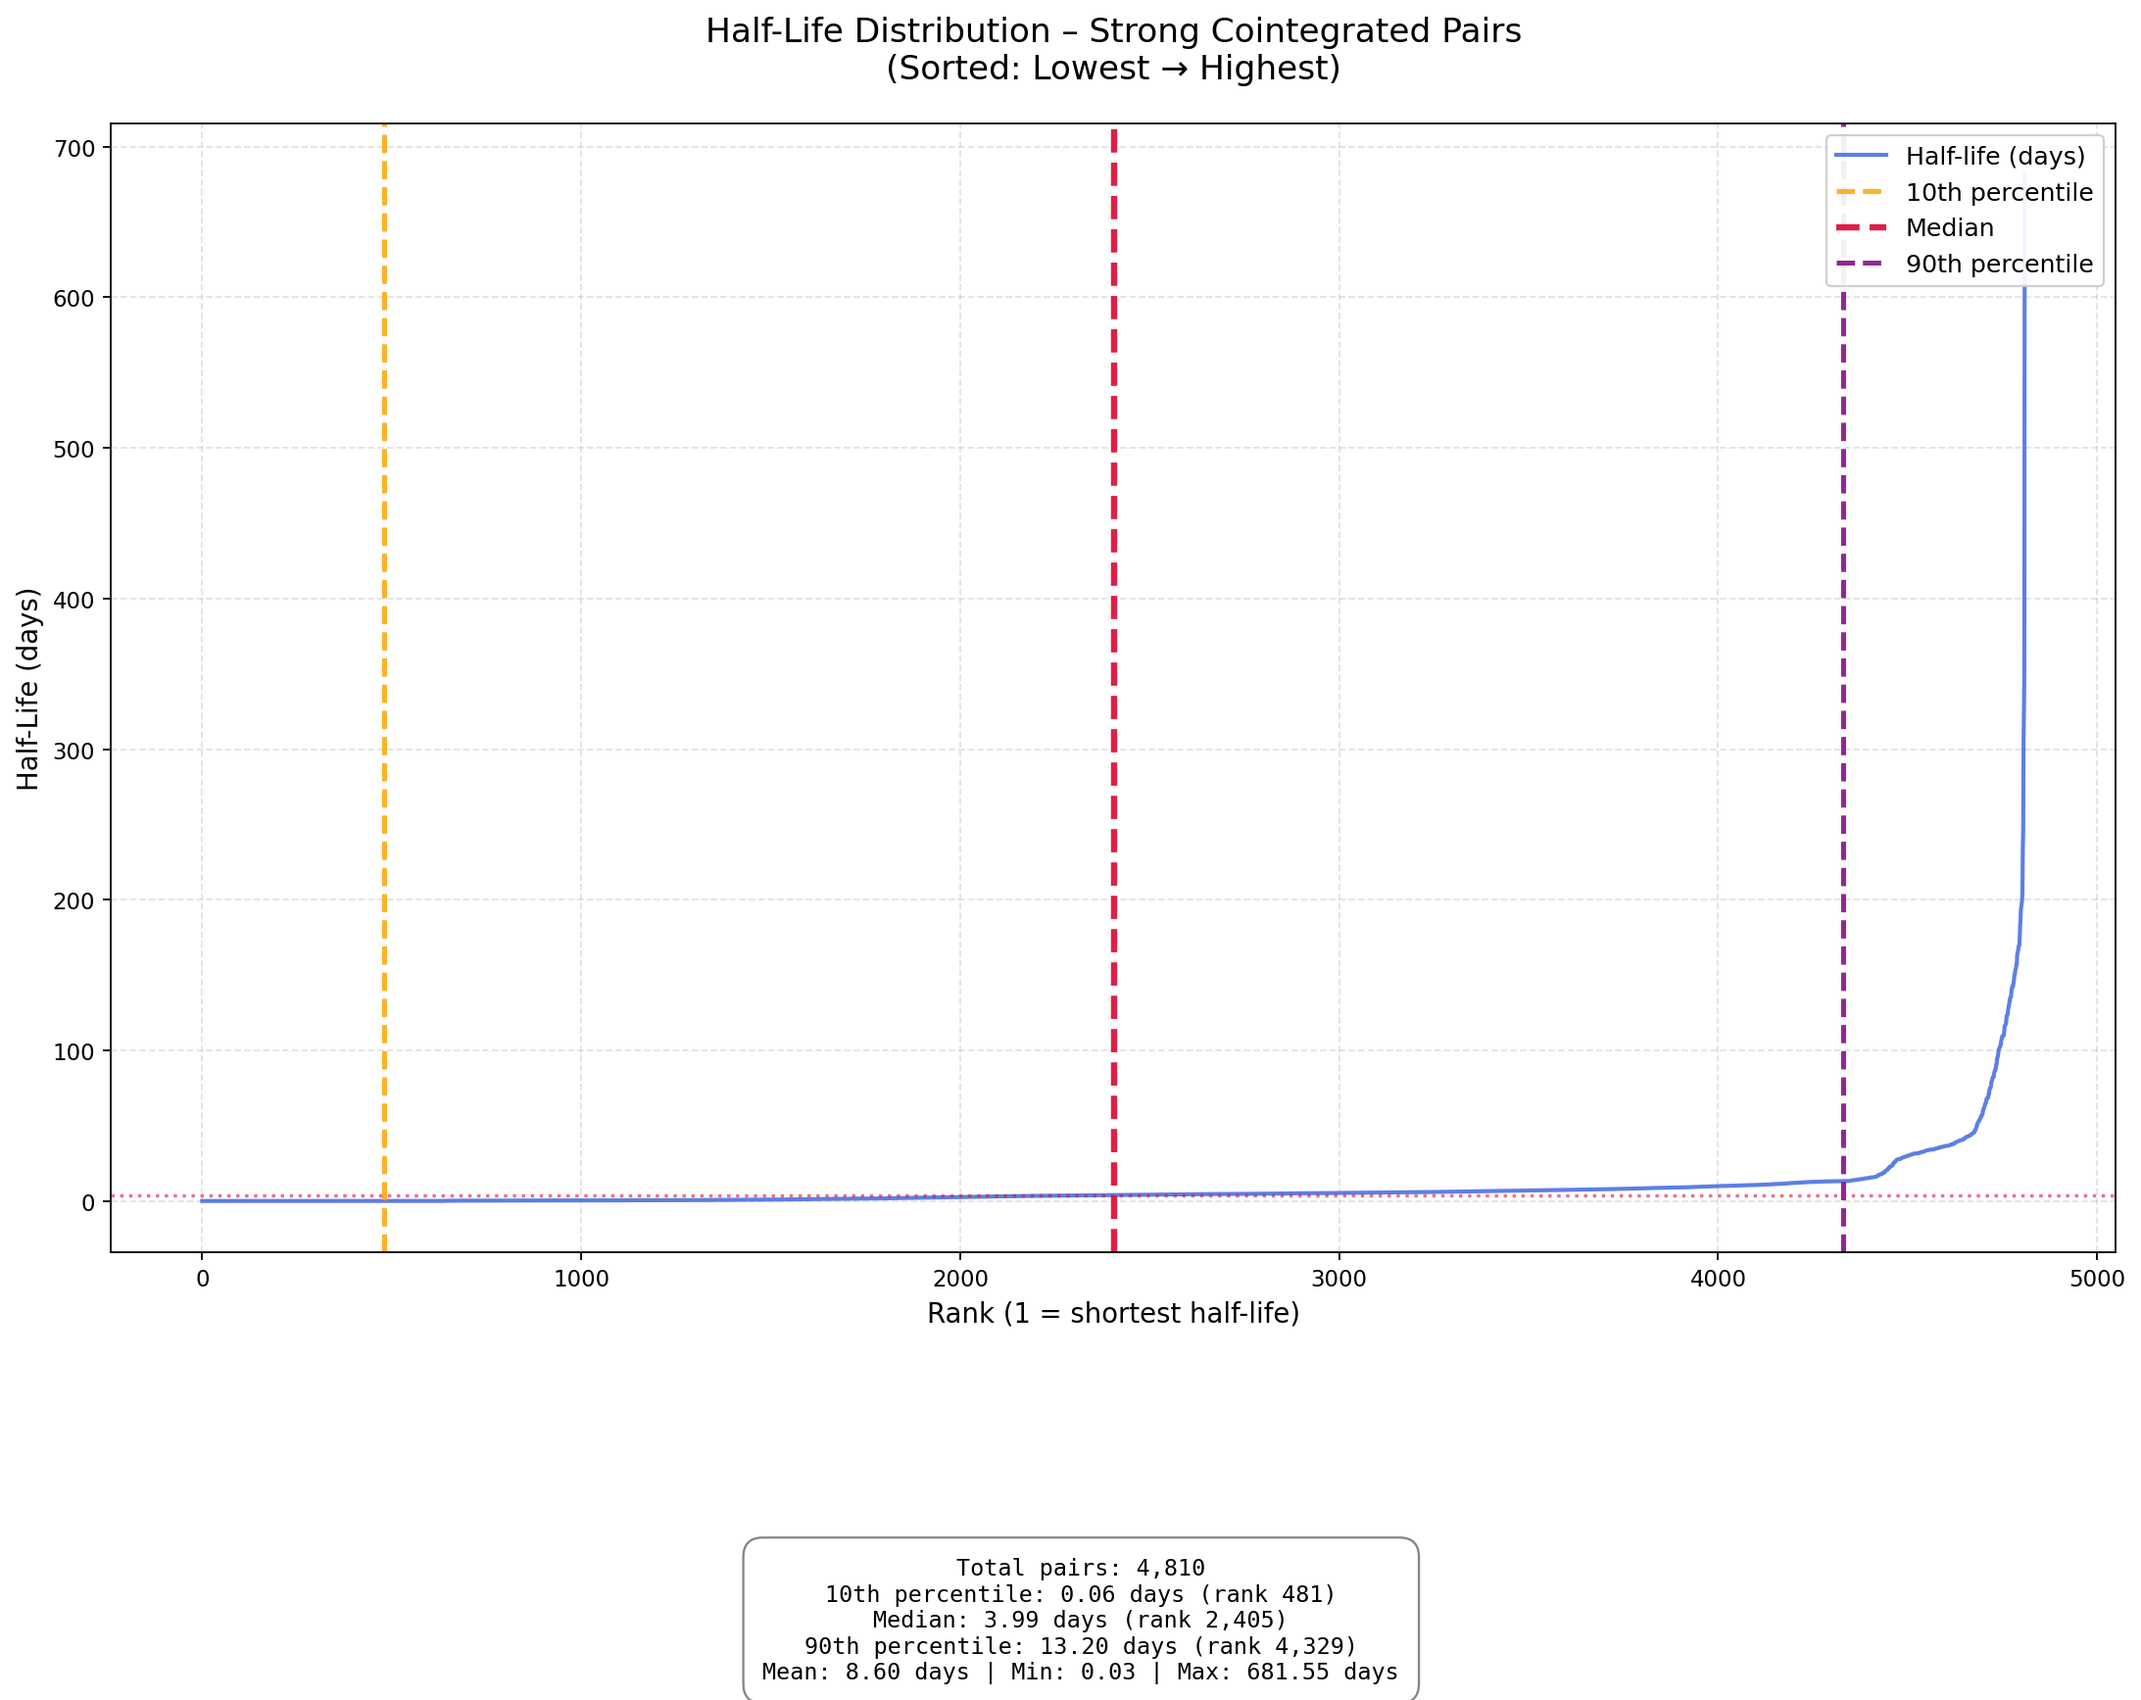
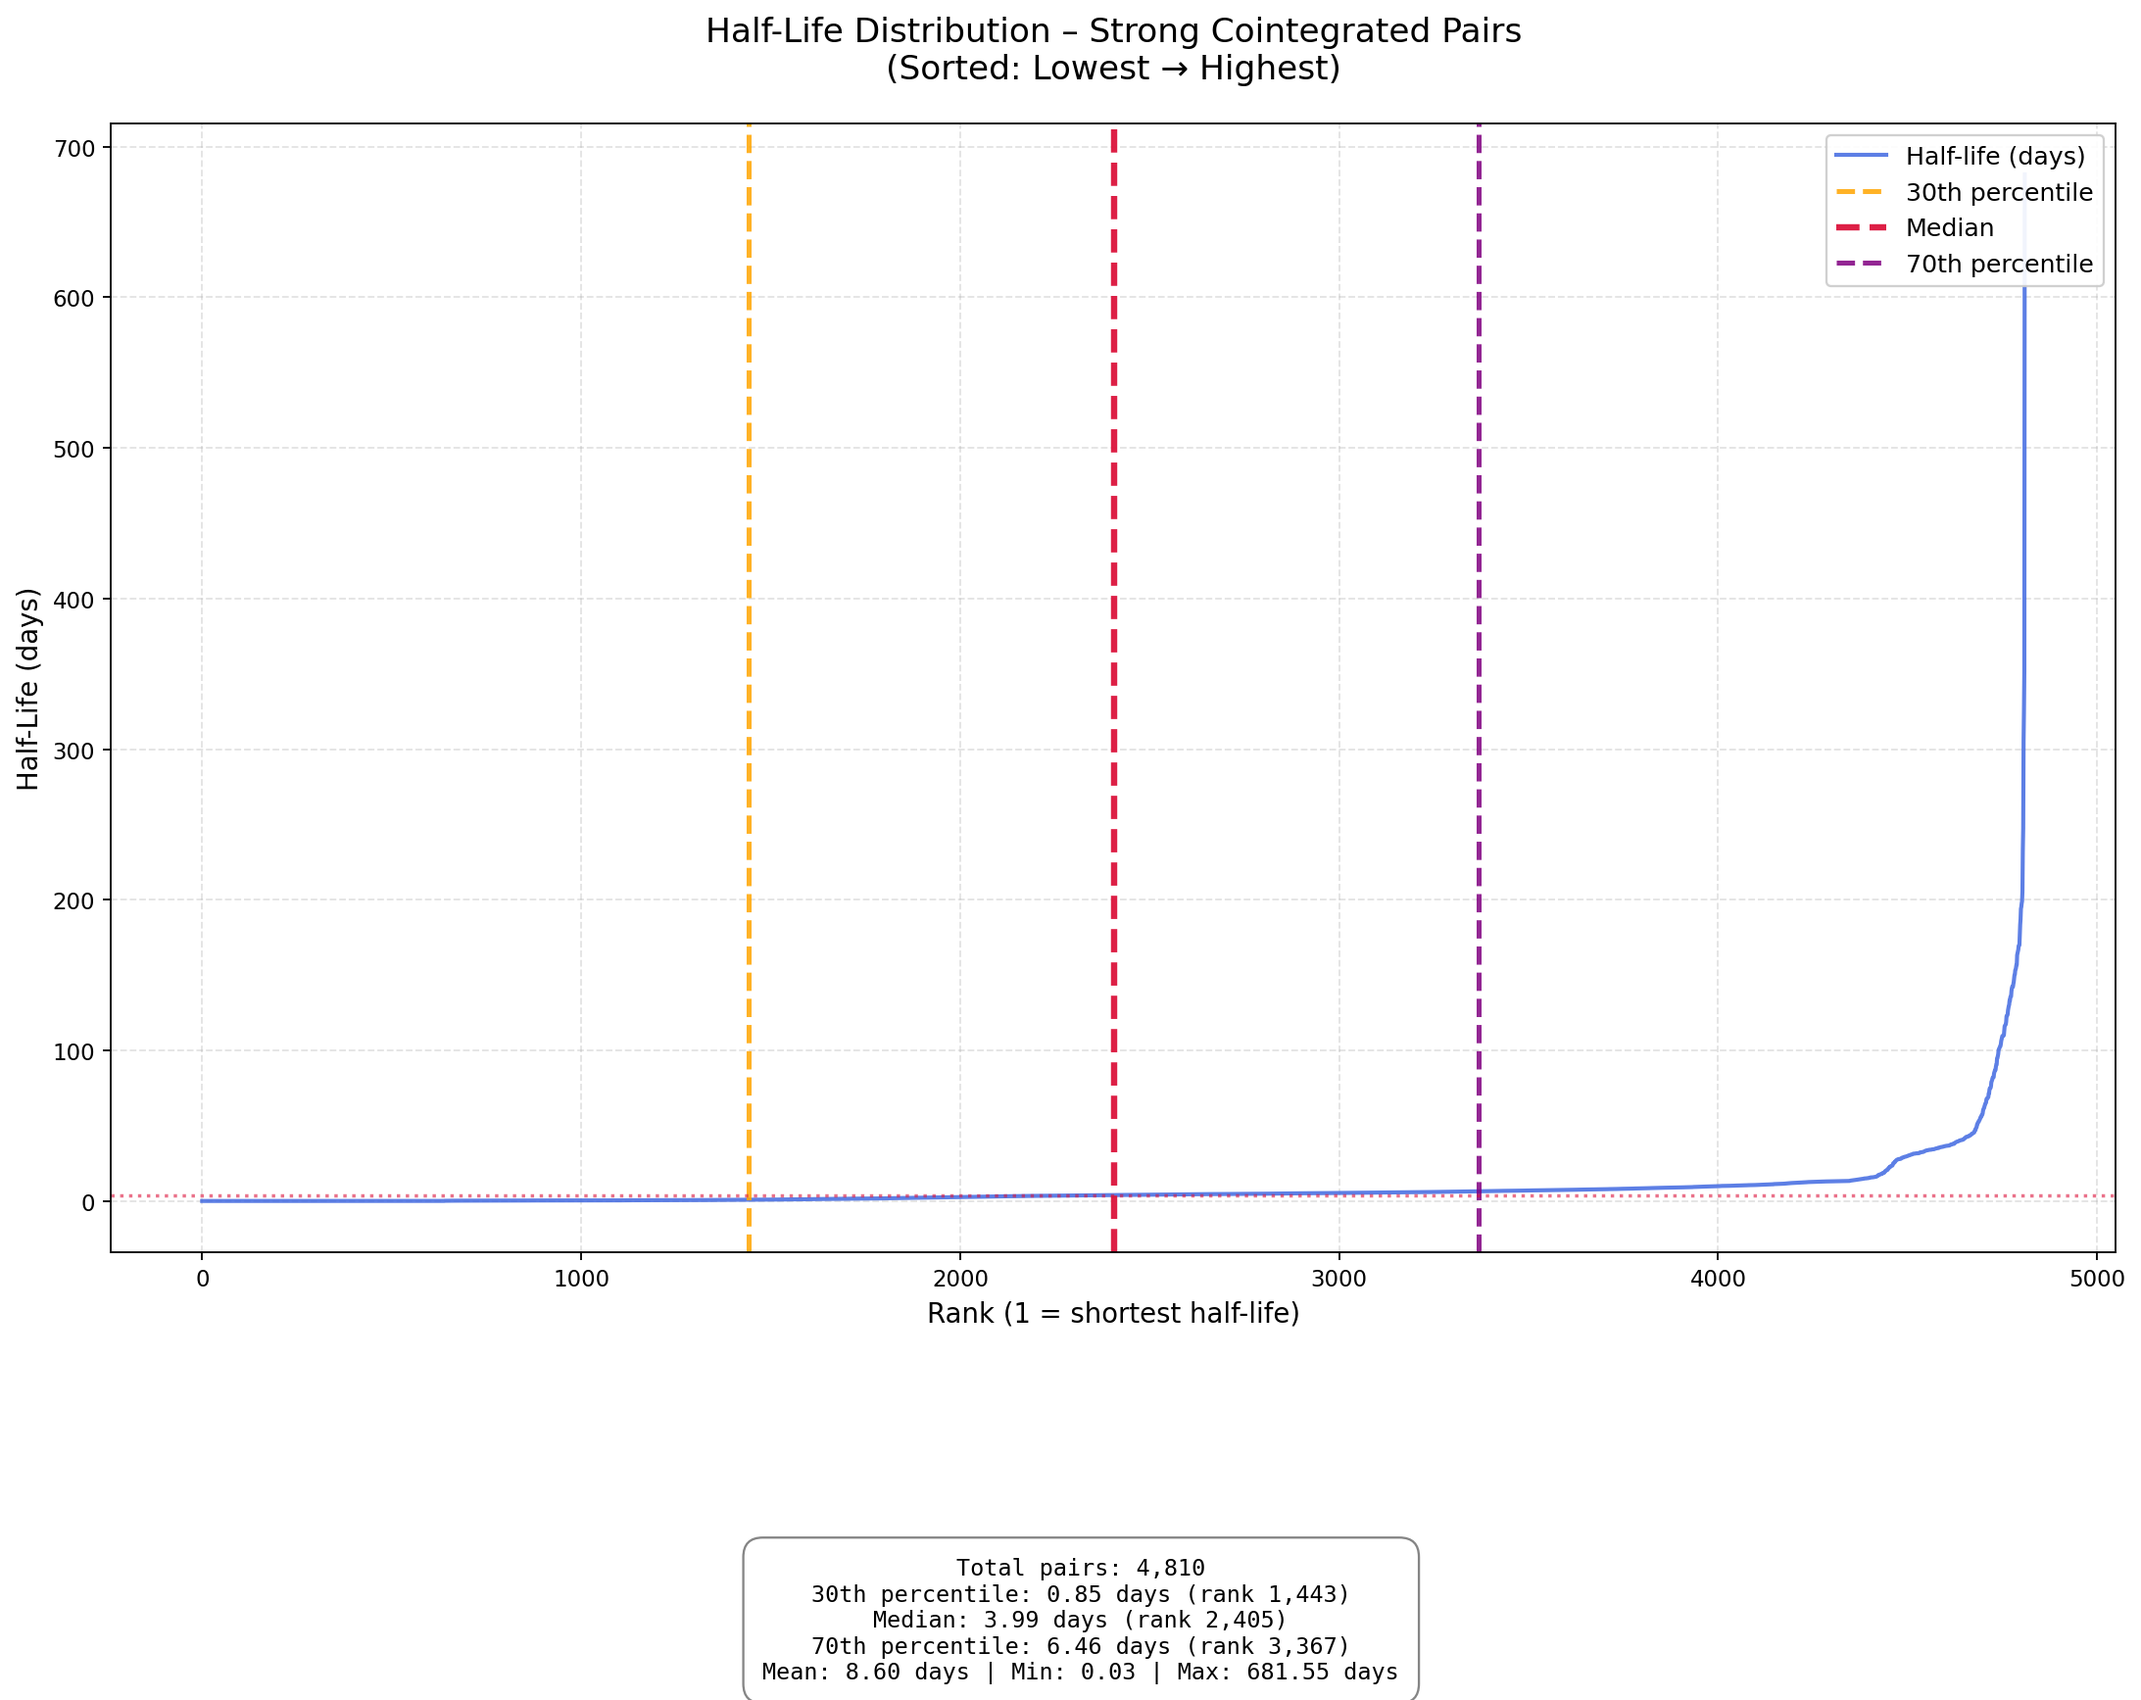
range for candidates

Changed region(s): [[0.3735, 0.9337, 0.6224, 0.996]]

diff --git a/src/pcv2/cleanup_pairs_data.py b/src/pcv2/cleanup_pairs_data.py
@@ -11,6 +11,10 @@ class CointegrationDataProcessor:
     2. Overlap filter (80% of global max) → self.filtered_df
     3. Strong cointegration filter → self.strong_df
     4. Plot function with cleaner bottom footer (box moved up + refined)
+    
+    NEW (March 2026): 
+    5. plot_half_life_distribution() now accepts lower_percentile and upper_percentile
+       (e.g. 20/80, 5/95, 25/75) while keeping the median fixed.
     """
 
     def __init__(self, csv_path: str):
@@ -117,14 +121,18 @@ class CointegrationDataProcessor:
         return df['pair'].tolist() if df is not None else []
 
     # ===================================================================
-    # UPDATED: Footer box moved up + cleaner/tighter appearance
+    # CONFIGURABLE PERCENTILES (NEW FEATURE)
     # ===================================================================
-    def plot_half_life_distribution(self, output_png: Optional[str] = None, log_scale: bool = False) -> str:
+    def plot_half_life_distribution(
+        self, 
+        output_png: Optional[str] = None, 
+        log_scale: bool = False,
+        lower_percentile: float = 30.0,   # ← NEW: fully configurable
+        upper_percentile: float = 70.0    # ← NEW: fully configurable
+    ) -> str:
         """
-        UPDATED PER YOUR REQUEST:
-        - Stats box moved slightly upward (y=0.038, va='center')
-        - Tighter padding + reduced bottom margin (no more excess white space)
-        - Cleaner, more balanced, professional look
+        Now supports any percentile pair (e.g. 20/80, 5/95, 25/75).
+        Median stays fixed (crimson line) as the most important reference.
         """
         df = self.strong_df if self.strong_df is not None else self.filtered_df
         if df is None or len(df) == 0:
@@ -139,31 +147,34 @@ class CointegrationDataProcessor:
         n = len(half_lives)
         median_hl = half_lives.median()
 
-        # Percentile ranks
-        rank_10 = int(n * 0.10)
-        rank_50 = int(n * 0.50)
-        rank_90 = int(n * 0.90)
+        # === DYNAMIC + SAFE PERCENTILE CALCULATION ===
+        lower_percentile = max(0.0, min(100.0, float(lower_percentile)))
+        upper_percentile = max(0.0, min(100.0, float(upper_percentile)))
 
-        hl_10 = half_lives.iloc[rank_10]
-        hl_90 = half_lives.iloc[rank_90]
+        lower_p = lower_percentile / 100.0
+        upper_p = upper_percentile / 100.0
 
-        # Slightly refined figure size
+        rank_lower = max(0, min(n-1, int(n * lower_p)))
+        rank_50    = int(n * 0.50)
+        rank_upper = max(0, min(n-1, int(n * upper_p)))
+
+        hl_lower = half_lives.iloc[rank_lower]
+        hl_upper = half_lives.iloc[rank_upper]
+
+        # === PLOTTING ===
         plt.figure(figsize=(16, 11.0))
         
-        # Main sorted line
         plt.plot(half_lives.index, half_lives.values, 
                  color='royalblue', linewidth=1.8, alpha=0.85, 
                  label='Half-life (days)')
 
-        # Vertical lines
-        plt.axvline(x=rank_10, color='orange', linestyle='--', linewidth=2.2, alpha=0.85,
-                    label='10th percentile')
+        plt.axvline(x=rank_lower, color='orange', linestyle='--', linewidth=2.2, alpha=0.85,
+                    label=f'{lower_percentile:.0f}th percentile')
         plt.axvline(x=rank_50, color='crimson', linestyle='--', linewidth=2.8, alpha=0.95,
                     label='Median')
-        plt.axvline(x=rank_90, color='purple', linestyle='--', linewidth=2.2, alpha=0.85,
-                    label='90th percentile')
+        plt.axvline(x=rank_upper, color='purple', linestyle='--', linewidth=2.2, alpha=0.85,
+                    label=f'{upper_percentile:.0f}th percentile')
 
-        # Faint median horizontal reference
         plt.axhline(y=median_hl, color='crimson', linestyle=':', linewidth=1.5, alpha=0.6)
 
         title = "Half-Life Distribution – Strong Cointegrated Pairs\n(Sorted: Lowest → Highest)"
@@ -179,25 +190,22 @@ class CointegrationDataProcessor:
             plt.ylabel("Half-Life (days) – Log Scale", fontsize=12)
             
         plt.grid(True, alpha=0.35, linestyle='--')
-        
-        # Legend (upper right - unchanged)
         plt.legend(fontsize=11, loc='upper right', framealpha=0.92, fancybox=True)
 
-        # === STATS BOX – MOVED UP + CLEANER ===
+        # === STATS BOX (same clean position) ===
         stats_text = f"""Total pairs: {n:,}
-10th percentile: {hl_10:.2f} days (rank {rank_10:,})
+{lower_percentile:.0f}th percentile: {hl_lower:.2f} days (rank {rank_lower:,})
 Median: {median_hl:.2f} days (rank {rank_50:,})
-90th percentile: {hl_90:.2f} days (rank {rank_90:,})
+{upper_percentile:.0f}th percentile: {hl_upper:.2f} days (rank {rank_upper:,})
 Mean: {half_lives.mean():.2f} days | Min: {half_lives.min():.2f} | Max: {half_lives.max():.2f} days"""
 
         plt.figtext(0.5, 0.038, stats_text, ha='center', va='center', 
                     fontsize=10.2, fontfamily='monospace',
                     bbox=dict(boxstyle="round,pad=0.85", facecolor="white", alpha=0.96, edgecolor='gray'))
 
-        # Reduced bottom margin for perfect spacing
         plt.subplots_adjust(bottom=0.245)
 
-        # Default filename
+        # Save
         if output_png is None:
             base = self.csv_path.stem
             suffix = "_strong" if self.strong_df is not None else ""
@@ -206,10 +214,10 @@ Mean: {half_lives.mean():.2f} days | Min: {half_lives.min():.2f} | Max: {half_li
         plt.savefig(output_png, dpi=165, bbox_inches='tight', facecolor='white')
         plt.close()
 
-        print(f"📊 Updated chart with improved (higher + cleaner) footer saved:")
+        print(f"📊 Chart saved with {lower_percentile:.0f}th / Median / {upper_percentile:.0f}th percentiles")
         print(f"   → {output_png}")
         print(f"   Pairs plotted: {n:,}")
-        print(f"   10th–90th range : {hl_10:.2f} → {hl_90:.2f} days")
+        print(f"   {lower_percentile:.0f}th–{upper_percentile:.0f}th range : {hl_lower:.2f} → {hl_upper:.2f} days")
         print(f"   Median          : {median_hl:.2f} days (rank {rank_50:,})")
         
         return str(output_png)
@@ -224,7 +232,6 @@ if __name__ == "__main__":
     )
     
     processor.summary()
-    
     processor.filter_strong_cointegrations()
     
     print("\n🔝 Top 5 strongest cointegrations (shortest half-life):")
@@ -234,6 +241,15 @@ if __name__ == "__main__":
     processor.export_filtered()
 
     print("\n" + "="*80)
-    print("🎨 Generating updated half-life chart with better footer positioning...")
+    print("🎨 Generating charts...")
+
+    # Default (10th / 90th) — exactly like before
     processor.plot_half_life_distribution()
+
+    # NEW: Custom percentiles examples (uncomment any you want)
+    # processor.plot_half_life_distribution(lower_percentile=20, upper_percentile=80)
+    # processor.plot_half_life_distribution(lower_percentile=5,  upper_percentile=95, log_scale=True)
+    # processor.plot_half_life_distribution(lower_percentile=25, upper_percentile=75,
+    #                                       output_png="half_life_25_75_custom.png")
+
     print("="*80)
